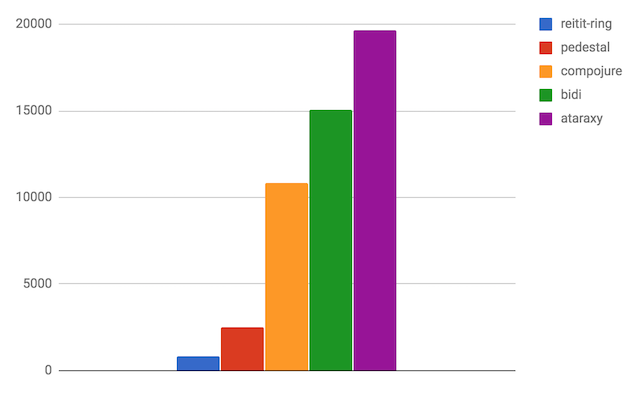
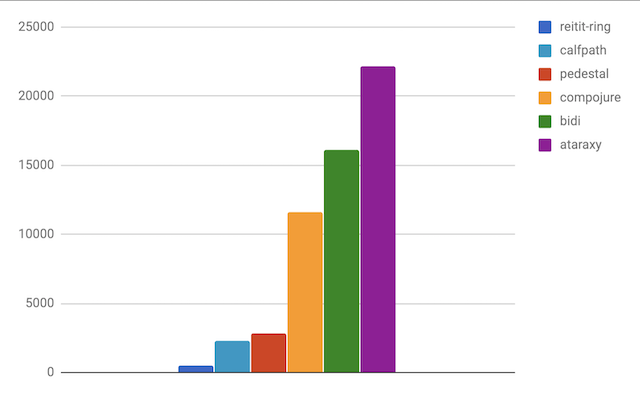
Calfpath-data

diff --git a/doc/performance.md b/doc/performance.md
@@ -1,6 +1,6 @@
 # Performance
 
-Reitit tries to be both great in features and be really, really fast. Originally the routing was ported from [Pedestal](http://pedestal.io/), but has been mostly rewritten.
+Besides having great features, the goal of reitit is to be really, really fast. The routing was originally exported from Pedestal, but since rewritten.
 
 ![Opensensors perf test](images/opensensors.png)
 
@@ -63,13 +63,13 @@ The routing sample taken from [bide](https://github.com/funcool/bide) README:
   (dotimes [_ 1000]
     (r/match-by-path routes "/auth/login")))
 
-;; Execution time mean (per 1000): 530 µs -> 1.9M ops/sec
+;; Execution time mean (per 1000): 315 µs -> 3.2M ops/sec
 (cc/quick-bench
   (dotimes [_ 1000]
     (r/match-by-path routes "/workspace/1/1")))
 ```
 
-Based on the [perf tests](https://github.com/metosin/reitit/tree/master/perf-test/clj/reitit/perf/bide_perf_test.clj), the first (static path) lookup is 300-500x faster and the second (wildcard path) lookup is 4-24x faster that the other tested routing libs (Ataraxy, Bidi, Compojure and Pedestal).
+Based on the [perf tests](https://github.com/metosin/reitit/tree/master/perf-test/clj/reitit/perf/bide_perf_test.clj), the first (static path) lookup is 300-500x faster and the second (wildcard path) lookup is 6-40x faster that the other tested routing libs (Ataraxy, Bidi, Compojure and Pedestal).
 
 But, the example is too simple for any real benchmark. Also, some of the libraries always match on the `:request-method` too and by doing so, do more work than just match by path. Compojure does most work also by invoking the handler.
 
@@ -79,7 +79,7 @@ So, we need to test something more realistic.
 
 To get better view on the real life routing performance, there is [test](https://github.com/metosin/reitit/blob/master/perf-test/clj/reitit/opensensors_perf_test.clj) of a mid-size rest(ish) http api with 50+ routes, having a lot of path parameters. The route definitions are pulled off from the [OpenSensors](https://opensensors.io/) swagger definitions.
 
-Thanks to the snappy new [segment-tree](https://github.com/metosin/reitit/blob/master/modules/reitit-core/src/reitit/segment.cljc) algorithm, `reitit-ring` is fastest here. Pedestal is also fast with it's [prefix-tree](https://en.wikipedia.org/wiki/Radix_tree) implementation.
+Thanks to the snappy [SegmentTrie](https://github.com/metosin/reitit/blob/master/modules/reitit-core/java-src/reitit/SegmentTrie.java) (a modification of [Radix tree](https://en.wikipedia.org/wiki/Radix_tree)), `reitit-ring` is fastest here. [Calfpath](https://github.com/kumarshantanu/calfpath) and [Pedestal](https://github.com/pedestal/pedestal) are also quite fast.
 
 ![Opensensors perf](images/opensensors.png)
 
@@ -99,13 +99,14 @@ The reitit routing perf is measured to get an internal baseline to optimize agai
 
 ### Looking out of the box
 
-A quick poke to [routers in Go](https://github.com/julienschmidt/go-http-routing-benchmark) indicates that the reitit is only few times slower than the fastest routers in Go. Which is really awesome (if true).
+A quick poke to [routers in Go](https://github.com/julienschmidt/go-http-routing-benchmark) indicates that the reitit is only few times slower than the fastest routers in Go. Which is kinda awesome.
 
 ### Performance tips
 
 Few things that have an effect on performance:
 
 * Wildcard-routes are an order of magnitude slower than static routes
-* It's ok to mix non-wildcard and wildcard routes in a same routing tree as long as you don't disable the [conflict resolution](basics/route_conflicts.md) => if no conflicting routes are found, a `:mixed-router` can be created, which internally has a fast static path router and a separate wildcard-router. So, the static paths are still fast.
+* Conflicting routes are served with LinearRouter, which is the slowest implementation.
+* It's ok to mix non-wildcard, wildcard or even conflicting routes in a same routing tree. Reitit will create an hierarchy of routers to serve all the routes with best possible implementation. 
 * Move computation from request processing time into creation time, using by compiling [middleware](ring/compiling_middleware.md) & [route data](advanced/configuring_routers.md).
   * Unmounted middleware (or interceptor) is infinitely faster than a mounted one effectively doing nothing.
